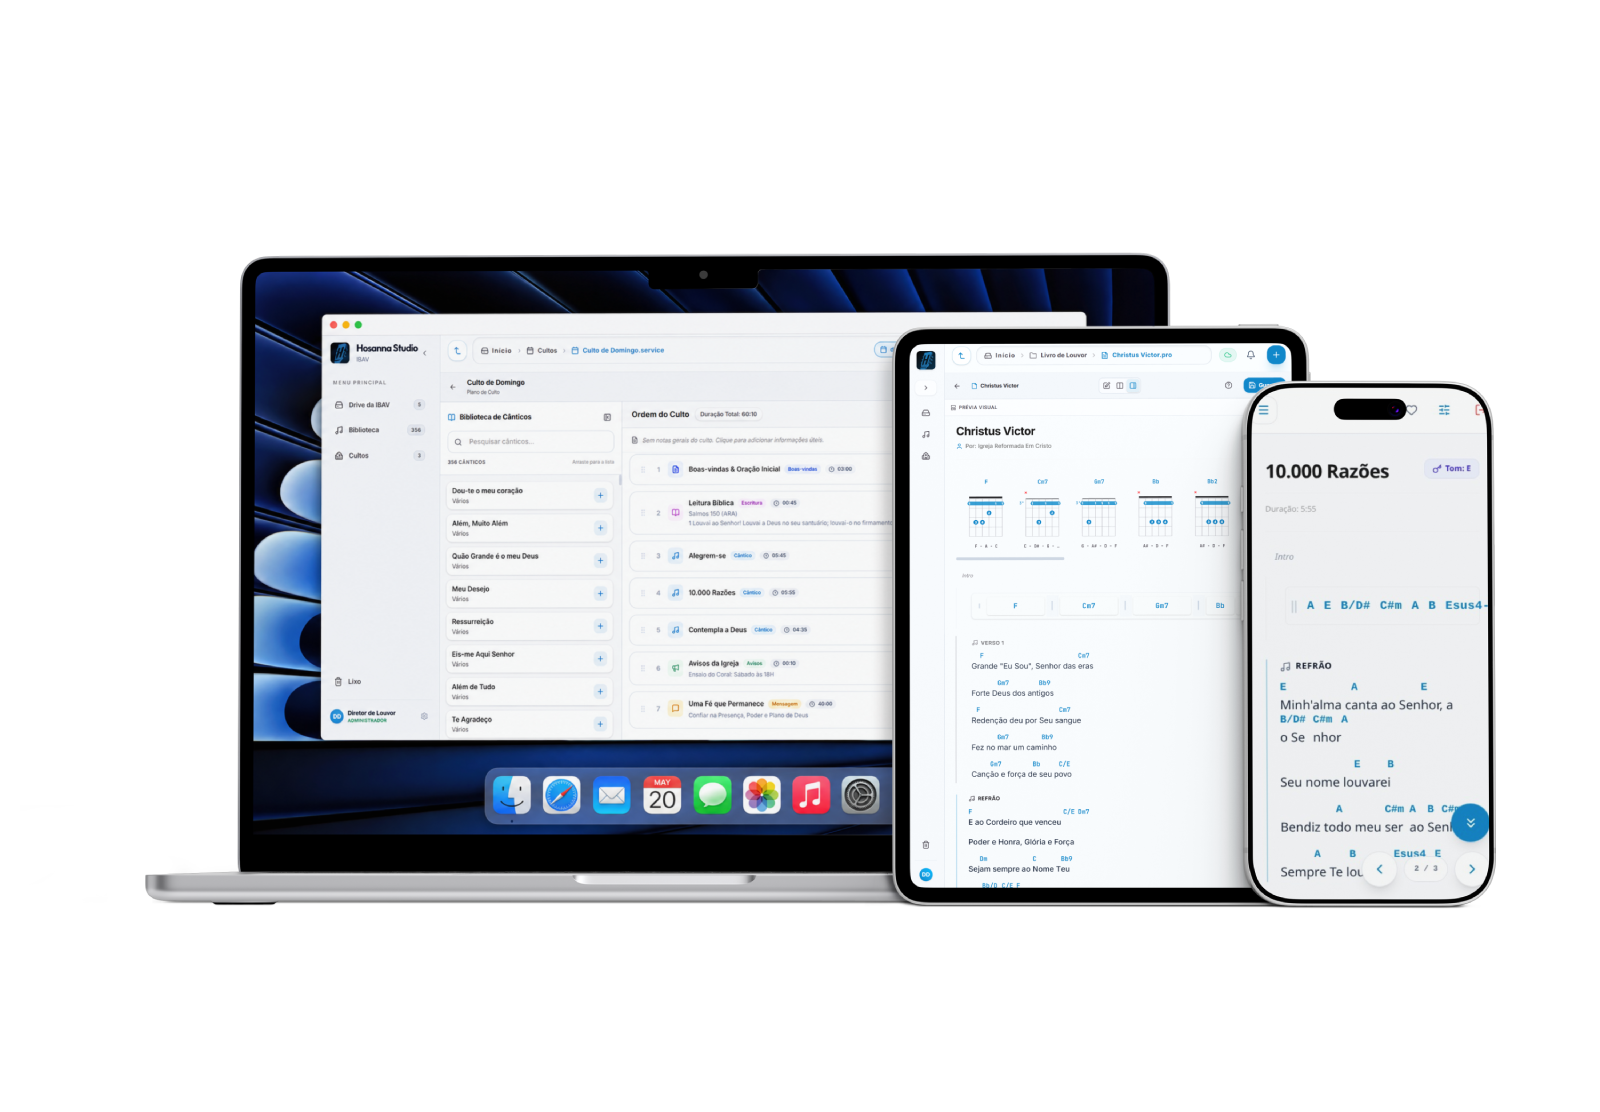
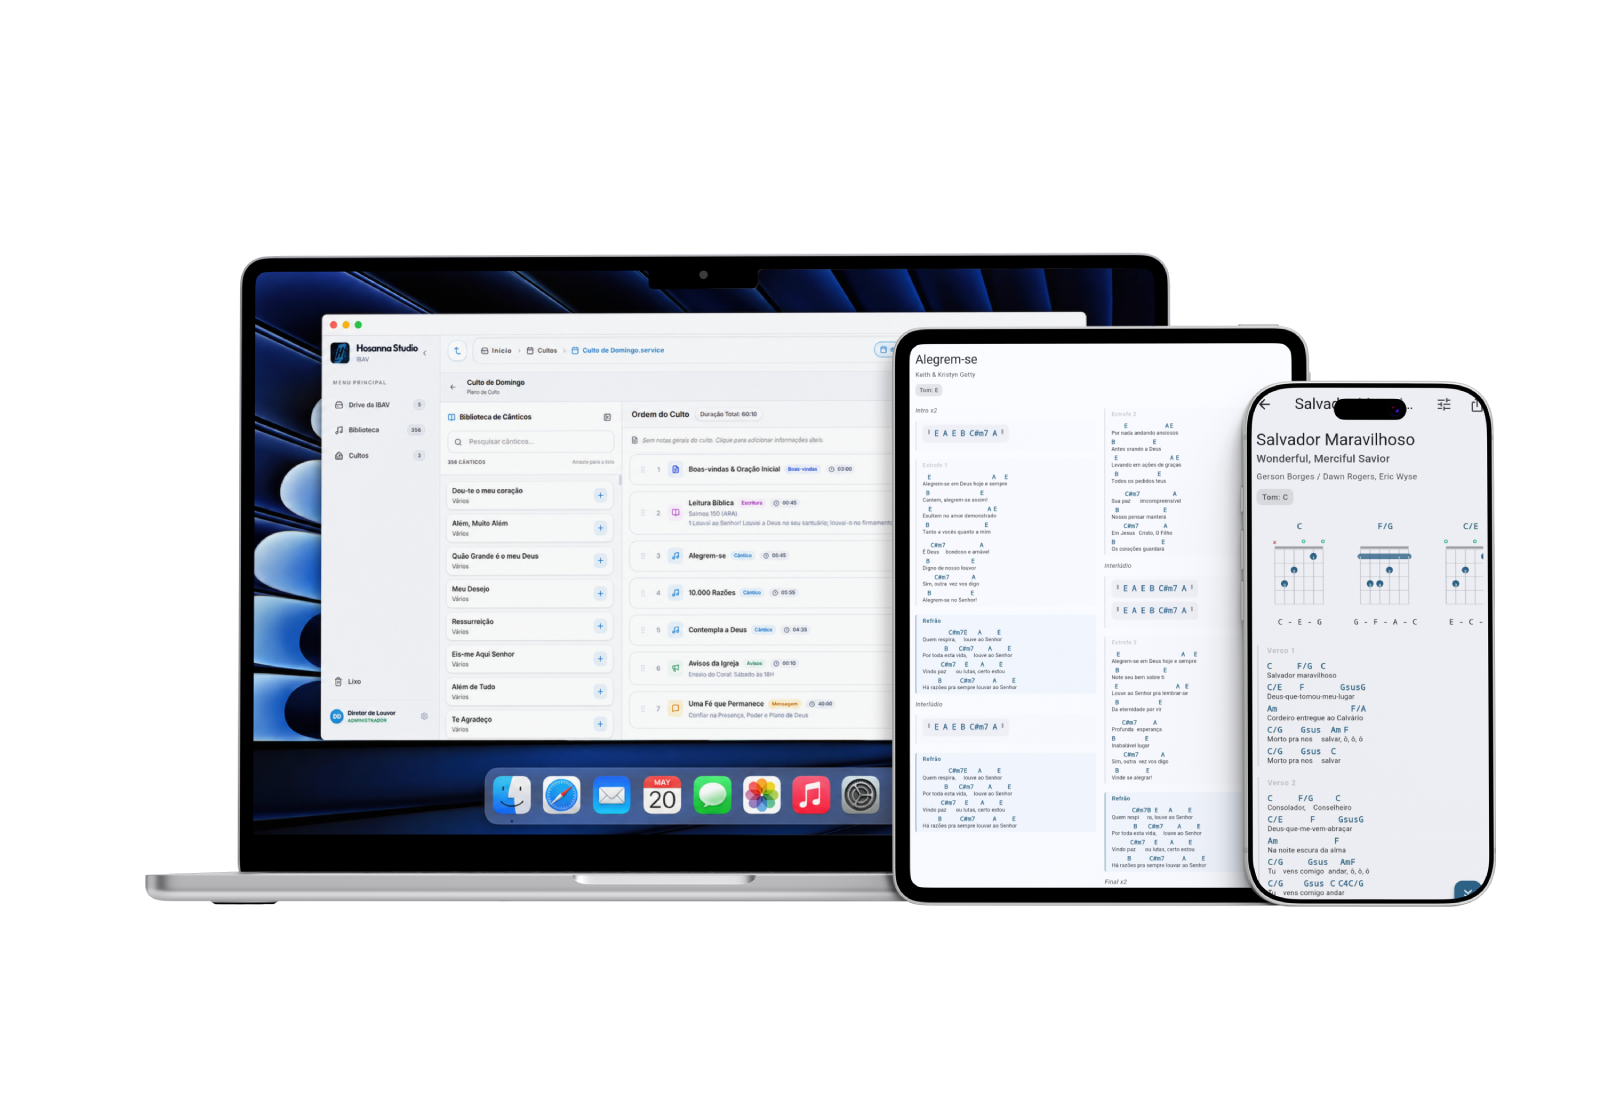
refactor: replace main_mockup.webp with main_mockup.png for consistency

diff --git a/src/components/hosanna/HosannaLanding.tsx b/src/components/hosanna/HosannaLanding.tsx
@@ -1,5 +1,5 @@
 import logo from "@/assets/hosanna_logo.webp";
-import dashboardImg from "@/assets/main_mockup.webp";
+import dashboardImg from "@/assets/main_mockup.png";
 import mobileImg from "@/assets/mobile-view.webp";
 import {
   Accordion,
